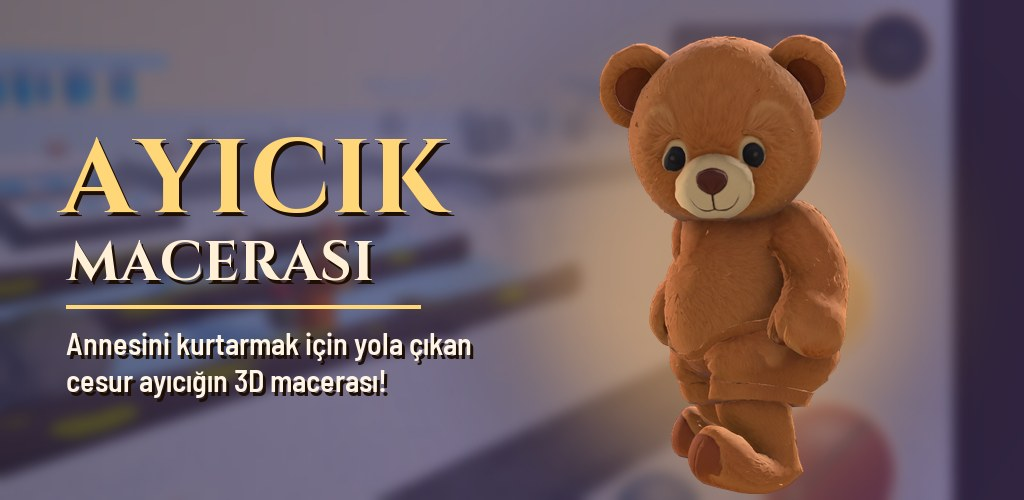
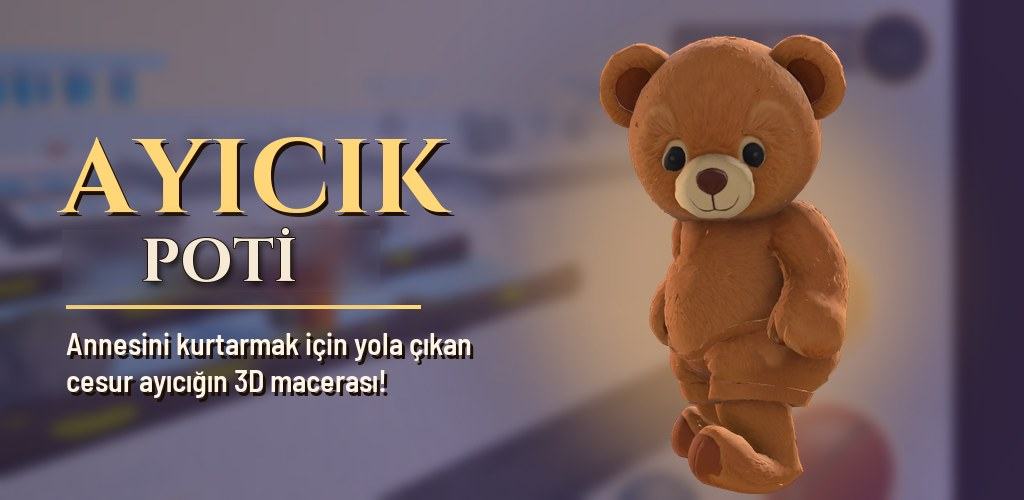
Ayıcık Poti: gizlilik politikası ve tanıtım sayfası güncellendi
- Gizlilik: Firebase Analytics, Play Games bulut kayıt, Google Play
  satın almaları, geri bildirim e-postası ve veri silme bölümleri
- Tanıtım: oyun adı Ayıcık Poti, 5 bölüm / 100 seviye, yeni görseller

Changed region(s): [[0.0625, 0.45, 0.375, 0.6]]

diff --git a/gizlilik.html b/gizlilik.html
@@ -3,7 +3,7 @@
 <head>
 <meta charset="utf-8">
 <meta name="viewport" content="width=device-width, initial-scale=1">
-<title>Gizlilik Politikası – Ayıcık Macerası</title>
+<title>Gizlilik Politikası – Ayıcık Poti</title>
 <link rel="icon" href="icon.png">
 <style>
   :root { --bg: #1d1712; --text: #f6ecdf; --muted: #cbb9a3; --honey: #f1b54a; }
@@ -17,31 +17,42 @@
 </head>
 <body>
 <main>
-  <p><a href="index.html">← Ayıcık Macerası</a></p>
-  <h1>Ayıcık Macerası – Gizlilik Politikası</h1>
-  <p class="muted">Son güncelleme: 22 Ekim 2026</p>
+  <p><a href="index.html">← Ayıcık Poti</a></p>
+  <h1>Ayıcık Poti – Gizlilik Politikası</h1>
+  <p class="muted">Son güncelleme: 25 Ekim 2026</p>
 
-  <p>Bu gizlilik politikası, KajuGame tarafından geliştirilen <strong>Ayıcık Macerası</strong> mobil oyunu ("Oyun") için geçerlidir.</p>
+  <p>Bu gizlilik politikası, Kaju Game tarafından geliştirilen <strong>Ayıcık Poti</strong> mobil oyunu ("Oyun") için geçerlidir.</p>
 
   <h2>Toplanan veriler</h2>
-  <p>Biz (geliştirici) hiçbir kişisel veri toplamayız. Oyunda hesap açma veya kişisel bilgi girme yoktur.</p>
-  <p>Oyun ilerlemeniz (açılan seviyeler, altın, satın alınan kostümler ve ayarlar) cihazınızda saklanır.</p>
+  <p>Biz (geliştirici) ad, telefon numarası veya adres gibi kişisel bilgileri toplamayız. Oyunda hesap açma veya kişisel bilgi girme yoktur.</p>
+  <p>Oyun ilerlemeniz (açılan seviyeler, yıldızlar, altın, kostümler, silahlar ve ayarlar) cihazınızda saklanır. Oyunu geliştirmek için anonim oyun istatistikleri toplanır (aşağıdaki "Oyun istatistikleri" bölümüne bakın). Oyun, aşağıda açıklanan Google hizmetlerini kullanır; bu hizmetler kendi verilerini Google'ın gizlilik politikasına göre işler.</p>
+
+  <h2>Oyun istatistikleri (Google Firebase Analytics)</h2>
+  <p>Oyunun zorluğunu ve içeriğini iyileştirmek için Google Firebase Analytics ile oyun istatistikleri toplanır: hangi seviyenin başlatıldığı, bitirildiği ya da yarıda bırakıldığı, alınan yıldız, seviye süresi, kaybedilen can sayısı, oyun içi altın harcamaları, ödüllü reklam izlenmesi ve geri bildirim butonunun kullanılması.</p>
+  <p>Firebase bunlarla birlikte uygulama örneği kimliğini, cihaz modeli ve işletim sistemi gibi cihaz bilgilerini, IP adresinden çıkarılan yaklaşık konumu (ülke/şehir düzeyinde) ve oturum sürelerini işleyebilir. Ad veya e-posta gibi bilgiler gönderilmez. Bu veriler yalnızca oyunu geliştirmek için kullanılır, satılmaz ve reklam amacıyla kullanılmaz. Ayrıntılar:
+    <a href="https://firebase.google.com/support/privacy">firebase.google.com/support/privacy</a></p>
 
   <h2>Google Play Games ve bulut kayıt</h2>
-  <p>Oyun, Google Play Games ile giriş yapmanıza izin verir. Giriş yaptığınızda oyun ilerlemeniz (seviyeler, yıldızlar, altın, kostümler, silahlar ve geliştirmeler) Google Play Games "Kayıtlı oyunlar" hizmetiyle Google hesabınıza bağlı olarak saklanır; böylece oyunu yeniden yüklediğinizde veya cihaz değiştirdiğinizde kaldığınız yerden devam edebilirsiniz. Play Games profiliniz ve bu kayıt Google tarafından işlenir ve Google'ın gizlilik politikasına tabidir. Kaydınızı Google Play Games uygulamasından veya Google hesabınızın veri ayarlarından silebilirsiniz.</p>
+  <p>Oyun, Google Play Games ile giriş yapmanıza izin verir. Giriş yaptığınızda oyun ilerlemeniz Google Play Games "Kayıtlı oyunlar" hizmetiyle Google hesabınıza bağlı olarak saklanır; böylece oyunu yeniden yüklediğinizde veya cihaz değiştirdiğinizde kaldığınız yerden devam edebilirsiniz. Play Games profiliniz ve bu kayıt Google tarafından işlenir ve Google'ın gizlilik politikasına tabidir. Kaydınızı Google Play Games uygulamasından veya Google hesabınızın veri ayarlarından silebilirsiniz.</p>
 
   <h2>Reklamlar (Google AdMob)</h2>
-  <p>Oyun ücretsizdir ve Google AdMob reklamları gösterir: seviye sonunda isteğe bağlı izlenen ödüllü reklamlar ve seviyeler arasında zaman zaman gösterilen tam ekran reklamlar.</p>
+  <p>Oyun ücretsizdir ve Google AdMob reklamları gösterir: isteğe bağlı izlenen ödüllü reklamlar ve seviyeler arasında zaman zaman gösterilen tam ekran reklamlar.</p>
   <p>Reklamları göstermek, ölçmek ve kötüye kullanımı önlemek için Google; cihazınızın reklam kimliğini, IP adresinden çıkarılan yaklaşık konumu, cihaz ve uygulama bilgilerini, reklam etkileşimlerini ve çökme/tanılama verilerini toplayabilir ve işleyebilir. Bu veriler Google'ın gizlilik politikasına tabidir:
     <a href="https://policies.google.com/privacy">policies.google.com/privacy</a> ve
     <a href="https://policies.google.com/technologies/partner-sites">policies.google.com/technologies/partner-sites</a></p>
   <p>Avrupa Ekonomik Alanı, Birleşik Krallık ve İsviçre gibi izin gerektiren bölgelerde oyun açılışta Google'ın izin formunu gösterir. Seçiminizi istediğiniz zaman oyunun Ayarlar menüsündeki "Gizlilik seçenekleri" butonundan değiştirebilirsiniz. Kişiselleştirilmiş reklamları ayrıca cihazınızın Ayarlar › Google › Reklamlar bölümünden kapatabilir veya reklam kimliğinizi silebilirsiniz.</p>
 
-  <h2>İnternet ve izinler</h2>
-  <p>Oyun internet bağlantısı olmadan da oynanır; reklamlar, güncelleme kontrolü ve bulut kayıt yalnızca bağlantı varken çalışır. Konum, kamera, mikrofon, rehber veya benzeri hiçbir hassas izin istenmez. Reklamlar için Android'in reklam kimliği (AD_ID) izni kullanılır.</p>
-
   <h2>Satın alma</h2>
-  <p>Oyunda gerçek parayla satın alma bulunmaz. Oyundaki altın yalnızca oyun içinde kazanılır ve harcanır.</p>
+  <p>Oyunda isteğe bağlı olarak Google Play üzerinden gerçek parayla altın paketleri satın alınabilir. Ödeme tamamen Google Play tarafından işlenir; kart veya ödeme bilgileriniz bize ulaşmaz. Oyun yalnızca satın alma işleminin sonucunu (hangi paketin alındığını) alır ve altını hesabınıza ekler. Satın alma geçmişiniz Google Play hesabınızda saklanır. Oyunun geri kalanı ücretsizdir; altın oyun içinde de kazanılabilir.</p>
+
+  <h2>Geri bildirim</h2>
+  <p>Oyundaki geri bildirim butonu cihazınızdaki e-posta uygulamasını açar. Mesaja oyun sürümü, cihaz modeli, işletim sistemi ve oyundaki ilerlemeniz eklenir. Bu bilgiler ve e-posta adresiniz yalnızca siz e-postayı gönderirseniz bize ulaşır; yalnızca mesajınızı yanıtlamak ve sorunu çözmek için kullanılır ve kimseyle paylaşılmaz.</p>
+
+  <h2>İnternet ve izinler</h2>
+  <p>Oyun internet bağlantısı olmadan da oynanır; reklamlar, oyun istatistikleri, güncelleme kontrolü, satın alma ve bulut kayıt yalnızca bağlantı varken çalışır. Konum, kamera, mikrofon, rehber veya benzeri hiçbir hassas izin istenmez. Reklamlar için Android'in reklam kimliği (AD_ID) izni kullanılır.</p>
+
+  <h2>Verilerinizin silinmesi</h2>
+  <p>Cihazınızdaki oyun verileri, oyunu kaldırdığınızda silinir. Bulut kaydınızı Google Play Games üzerinden silebilirsiniz. Firebase'deki oyun istatistiklerinizin silinmesini istemek için aşağıdaki adrese e-posta gönderebilirsiniz.</p>
 
   <h2>Çocukların gizliliği</h2>
   <p>Oyun 13 yaş ve üzeri kullanıcılar için tasarlanmıştır ve 13 yaşından küçük çocuklara yönelik değildir.</p>

diff --git a/index.html b/index.html
@@ -3,7 +3,7 @@
 <head>
 <meta charset="utf-8">
 <meta name="viewport" content="width=device-width, initial-scale=1">
-<title>Ayıcık Macerası</title>
+<title>Ayıcık Poti</title>
 <meta name="description" content="Kaçırılan annesini kurtarmak için yola çıkan cesur ayıcığın 3D macerası.">
 <link rel="icon" href="icon.png">
 <style>
@@ -26,23 +26,23 @@
 <body>
 <main>
   <header>
-    <img src="icon.png" alt="Ayıcık Macerası simgesi">
+    <img src="icon.png" alt="Ayıcık Poti simgesi">
     <div>
-      <h1>Ayıcık Macerası</h1>
-      <div>KajuGame</div>
+      <h1>Ayıcık Poti</h1>
+      <div>Kaju Game</div>
     </div>
   </header>
 
-  <img class="banner" src="banner.jpg" alt="Ayıcık Macerası">
+  <img class="banner" src="banner.jpg" alt="Ayıcık Poti">
 
-  <p>Bir sonbahar gecesi, Bal Vadisi'nde yaşayan küçük Ayıcık uyandığında annesini yerinde bulamadı. Karanlık Orman'ın yaratıkları, Gölge Kral'ın emriyle annesini kaçırmıştı. Ayıcık küçük ama kararlı: kaçarak, saklanarak ve yol boyunca bulduklarıyla güçlenerek annesini geri getirecek!</p>
+  <p>Bir sonbahar gecesi, Bal Vadisi'nde yaşayan küçük ayıcık Poti uyandığında annesini yerinde bulamadı. Karanlık Orman'ın yaratıkları, Gölge Kral'ın emriyle annesini kaçırmıştı. Ayıcık küçük ama kararlı: kaçarak, saklanarak ve yol boyunca bulduklarıyla güçlenerek annesini geri getirecek!</p>
 
   <a class="play" href="https://play.google.com/store/apps/details?id=com.kajugame.ayicikoyunu">Google Play'de</a>
 
   <h2>Oyunda neler var?</h2>
   <ul>
-    <li>4 bölüm, 80 seviye ve her bölümün sonunda farklı bir canavar</li>
-    <li>Sopa, meşale, taş balyoz ve buz mızrağı</li>
+    <li>5 bölüm, 100 seviye ve her bölümün sonunda farklı bir canavar</li>
+    <li>Sopa, meşale, taş balyoz, buz mızrağı ve ata pençesi</li>
     <li>Kostümler, kürk renkleri ve silah geliştirmeleri</li>
     <li>Seslendirilmiş diyaloglar ve ilerleyen bir hikâye</li>
     <li>Google Play Games ile bulut kayıt</li>
@@ -55,7 +55,7 @@
 
   <footer>
     <p><a href="gizlilik.html">Gizlilik Politikası</a> · İletişim: <a href="mailto:yakupaaltintas@gmail.com">yakupaaltintas@gmail.com</a></p>
-    <p>© 2026 KajuGame</p>
+    <p>© 2026 Kaju Game</p>
   </footer>
 </main>
 </body>
